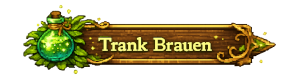
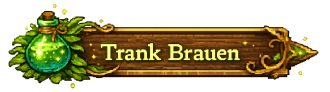
added trader

diff --git a/inventory.py b/inventory.py
@@ -15,7 +15,7 @@ class Inventory:
             self.item_slot.append([])
             for j in range(rows):
                 self.inventory_background[i].append(Actor('panel_brown', center = (x + i*65, y + j*65), anchor = ('center', 'center')))
-                self.item_slot[i].append(0)
+                self.item_slot[i].append(None)
 
     def add_item(self, colum, row, item):
         self.item_slot[colum][row] = item
@@ -24,7 +24,7 @@ class Inventory:
         added = False
         for i in range(len(self.item_slot)):
             for j in range(len(self.item_slot[i])):
-                if self.item_slot[i][j] == 0:
+                if self.item_slot[i][j] is None:
                     self.item_slot[i][j] = item
                     print(f'{i} | {j}')
                     print(item.name)
@@ -38,13 +38,18 @@ class Inventory:
 
         
     def del_item(self, colum, row):
-        self.item_slot[colum][row] = 0
+        self.item_slot[colum][row] = None
+
+    def del_all(self):
+        for i in range(len(self.item_slot)):
+            for j in range(len(self.item_slot[i])):
+                self.item_slot[i][j] = None
 
     def empty(self, colum, row):
-        return self.item_slot[colum][row] == 0
+        return self.item_slot[colum][row] is None
     
     def add_inv(self, x, y):
-        self.item_slot[0].append(0)
+        self.item_slot[0].append(None)
         self.inventory_background[0].append(Actor('panel_brown', center = (x, y), anchor = ('center', 'center')))
 
     def move(self, dx, dy):
@@ -53,15 +58,45 @@ class Inventory:
                 self.inventory_background[i][j].x += dx
                 self.inventory_background[i][j].y += dy
 
+    def get_value(self):
+        value = 0
+        for i in range(len(self.item_slot)):
+            for j in range(len(self.item_slot[i])):
+                if self.item_slot[i][j] is not None:
+                    value += self.item_slot[i][j].value
+        return value
+
+    def trade(self, button, pos, value1):
+        global_var.trade_allowed = False
+        selected_item = None
+        if button == 1 and global_var.inventory_open:
+            found = False
+            for i in range(len(self.item_slot)):
+                for j in range(len(self.item_slot[i])):
+                    self.inventory_background[i][j].image = 'panel_brown'
+                    if global_var.button_pressed(pos, self.inventory_background[i][j].x, self.inventory_background[i][j].y, 32, 32):
+                        if global_var.inventory_selected is not None:
+                            global_var.inventory_selected.inventory_background[global_var.inventory_pos_selected[0]][global_var.inventory_pos_selected[1]].image = 'panel_brown'
+                        if self.item_slot[i][j] is not None:
+                            self.inventory_background[i][j].image = 'panel_brown_selected'
+                            selected_item = self.item_slot[i][j]
+                            if self.item_slot[i][j].value * 2 <= value1:
+                                global_var.trade_allowed = True
+        return selected_item
+
+
+
     def mouse(self, button, pos):
         if button == 1 and global_var.inventory_open:
             found = False
             for i in range(len(self.item_slot)):
                 for j in range(len(self.item_slot[i])):
                     if global_var.button_pressed(pos, self.inventory_background[i][j].x, self.inventory_background[i][j].y, 32, 32):
-                        if global_var.inventory_pos_selected is not None:
+                        if global_var.inventory_selected is not None:
                             global_var.inventory_selected.inventory_background[global_var.inventory_pos_selected[0]][global_var.inventory_pos_selected[1]].image = 'panel_brown'
                             
+                            print('tauschen')
+
                             item_temp = self.item_slot[i][j]
                             self.add_item(i, j, global_var.inventory_selected.item_slot[global_var.inventory_pos_selected[0]][global_var.inventory_pos_selected[1]])
                             global_var.inventory_selected.add_item(global_var.inventory_pos_selected[0], global_var.inventory_pos_selected[1], item_temp)
@@ -80,7 +115,7 @@ class Inventory:
     def update(self):
         for i in range(len(self.item_slot)):
             for j in range(len(self.item_slot[i])):
-                if not self.item_slot[i][j] == 0:                    
+                if self.item_slot[i][j]is not None:                    
                     mouse_pos = pygame.mouse.get_pos()
 
                     if self.inventory_background[i][j].collidepoint(mouse_pos):
@@ -92,7 +127,7 @@ class Inventory:
             for i in range(len(self.item_slot)):
                 for j in range(len(self.item_slot[i])):
                     self.inventory_background[i][j].draw()
-                    if self.item_slot[i][j] != 0:
+                    if self.item_slot[i][j] is not None:
                         self.item_slot[i][j].draw(self.inventory_background[i][j].x, self.inventory_background[i][j].y, screen)
             
             if self.hovered_item is not None:

diff --git a/trader.py b/trader.py
@@ -5,4 +5,37 @@ from inventory import Inventory
 
 class Trader:
     def __init__(self):
-        self.actor = Actor('trader', bottomleft = (920, 900))
+        self.actor = Actor('trader', bottomleft = (920, 950))
+        self.trade_button = Actor('startknopf', center = (1120, 350))
+
+        self.selling_items = Inventory(3, 3, 900, 502)
+        self.buying_items = Inventory(4, 4, 1170, 470)
+
+        for name, item in global_var.all_ingredients.items():
+            self.buying_items.add_item_on_empty(item)
+
+    def mouse(self, button, pos):
+        self.selling_items.mouse(button, pos)
+
+        if global_var.trade_allowed and global_var.button_pressed(pos, 1120, 350, 130, 60) and global_var.inventory_open:
+            self.selling_items.del_all()            
+            global_var.trade_allowed = False
+            self.selling_items.add_item(1, 1, self.selected_item)
+        else:
+            self.selected_item = self.buying_items.trade(button, pos, self.selling_items.get_value())
+    
+    def update(self):
+        self.trade_button.y += global_var.scroll_y
+        self.actor.y += global_var.scroll_y
+        self.selling_items.move(0, global_var.scroll_y)
+        self.buying_items.move(0, global_var.scroll_y)
+
+    def draw(self, screen):
+        if not global_var.night:
+            self.actor.draw()
+            self.selling_items.draw(screen)
+            self.buying_items.draw(screen)
+
+            if global_var.inventory_open:
+                if global_var.trade_allowed:
+                    self.trade_button.draw()

diff --git a/global_var.py b/global_var.py
@@ -3,6 +3,7 @@ import random
 from items import Item
 from inventory import Inventory
 from layers import Layer
+from trader import Trader
 
 WIDTH = 1420
 HEIGHT = 930 
@@ -13,18 +14,26 @@ absolutex = 0
 absolutey = 930
 
 scene = 1
+
+trader = None
+trade_allowed = False
+
 wave = WaveManager()
+
 game_started = False
 game_start = False
 game_lost = False
+
 time = 0
-duration_day = 100
+duration_day = 10000
 night = False
+darkness = 0
+
 inventory_player = Inventory(5, 5, 42, 112)
 inventory_open = False
 inventory_pos_selected = None
 inventory_selected = None
-darkness = 0
+
 seed = None
 all_ingredients = {}
 all_effects = [
@@ -77,6 +86,7 @@ def mouse_global_var(button, pos):
 
     if game_started and not autoscroll:
         inventory_player.mouse(button, pos)
+        trader.mouse(button, pos)
         if scene == 1:
             for layer in layers:
                 layer.mouse(button, pos)
@@ -99,6 +109,7 @@ def update_global_var():
     global all_ingredients
     global inventory_player
     global layers
+    global trader
     
     absolutey += scroll_y
 
@@ -121,8 +132,13 @@ def update_global_var():
         inventory_player.add_item(0, 1, all_ingredients['dead_worm'])
         inventory_player.add_item(1, 1, all_ingredients['leaf'])        
         inventory_player.add_item(2, 1, all_ingredients['cherry'])
+        inventory_player.add_item_on_empty(Item('Debug Kill', 'potion', 0, None, {'fire':100}))
+
+        trader = Trader()
 
     if game_started:
+        trader.update()
+
         if time < duration_day and not night:
             time += 1
             if 255 - time >= 0:
@@ -156,9 +172,11 @@ def draw_global_var(screen):
     global game_started
     global wave
     global layers
+    global trader
     
     if game_started:
         inventory_player.draw(screen)
+        trader.draw(screen)
         if scene == 1:
             for layer in layers:
                 layer.draw(screen)
@@ -179,7 +197,10 @@ def game_setback():
     global darkness
     global game_start
     global seed
+    global trade_allowed
 
+
+    trade_allowed = False
     darkness = 0
     scene = 1
     autoscroll = True

diff --git a/items.py b/items.py
@@ -6,19 +6,20 @@ import pygame
 
 class Item():
     def __init__(self, name, type, delay, image, standart_effect):
-        self.value = 1
+        self.value = 0
         self.discovered_effects = {}
 
         if type == 'ingredient':
-            effects = self.generate_effects(standart_effect)
-            self.effects = effects
+            self.effects = self.generate_effects(standart_effect)
             self.name = name
             self.type = type
             self.delay = delay
 
             self.actor = Actor(image)
+            for effect, value in self.effects.items():
+                self.value += value
 
-        elif type == 'potion':
+        if type == 'potion':
             self.vis_height = 28
             self.name = name
             self.type = type
@@ -31,10 +32,8 @@ class Item():
                 self.discovered_effects[effect] = value
                 color = global_var.effect_to_color.get(effect, (200, 200, 200))
                 self.liquid.fill(color, special_flags=pygame.BLEND_MULT)
-            self.value = 2
+                self.value = value * 2
 
-        for effect, value in self.effects.items():
-            self.value *= value
 
     def generate_effects(self, standart_effect):    
 

diff --git a/layers.py b/layers.py
@@ -14,6 +14,7 @@ class Layer:
         self.pulse = False
         self.animation = Actor('animations/nothing', midbottom = (global_var.WIDTH // 2 - 40, global_var.absolutey - self.layer * 137 - 105))
 
+        self.frame = 0
         self.frames = {
             'fire': [
                 "animations/fire_1",
@@ -35,7 +36,7 @@ class Layer:
 
                 if not self.potion_used:
                     for effect, value in self.potion_slot.item_slot[0][0].effects.items():
-                        self.effect_duration = value*100 + 200
+                        self.effect_duration = value * 100 + 200
                         self.effect[effect] = self.potion_slot.item_slot[0][0].effects[effect]
                         if effect == 'pulse':
                             self.pulse = True
@@ -63,8 +64,11 @@ class Layer:
             self.effect = {}
 
     def animate(self):
-        if self.effect_timer % 9 == 0:
-            self.animation.image = self.frames['fire'][random.randint(0,6)]
+        if self.effect_timer % 10 == 0:
+            self.frame += 1
+            if self.frame  % len(self.frames['fire']) == 0:
+                self.frame = 0
+        self.animation.image = self.frames['fire'][self.frame]
 
 
 

diff --git a/Monster.py b/Monster.py
@@ -87,16 +87,16 @@ class Monster():
             if effect_name == 'poison':
                 self.effects[effect_name]['duration'] = strength * 200
                 self.effects[effect_name]['dmg'] = strength * 0.02
-                self.effects[effect_name]['timer_apply'] =  100 // strength
+                self.effects[effect_name]['timer_apply'] =  100 // strength + 1
             elif effect_name == 'fire':
                 self.effects[effect_name]['duration'] = strength * 20
                 self.effects[effect_name]['dmg'] = strength * 0.1 + 1
-                self.effects[effect_name]['timer_apply'] =  100 // strength
+                self.effects[effect_name]['timer_apply'] =  100 // strength + 1
                 self.effects['ice']['duration'] = 0
             elif effect_name == 'ice':
                 self.effects[effect_name]['duration'] = strength * 20
                 self.effects[effect_name]['dmg'] = strength * 0.05
-                self.effects[effect_name]['timer_apply'] =  100 // strength
+                self.effects[effect_name]['timer_apply'] =  100 // strength + 1
                 self.effects[effect_name]['speed_decrease'] = strength * 0.02
                 self.effects['fire']['duration'] = 0
                 self.effects['slow']['duration'] = strength * 10

diff --git a/brewing.py b/brewing.py
@@ -12,7 +12,7 @@ class Brew_potions():
         self.button_actor = Actor('alchemy/brew_button', center = (x, y + 200), anchor = ('center', 'center'))
 
     def mouse(self, button, pos):
-        if button == 1 and global_var.button_pressed(pos, self.button_actor.x, self.button_actor.y, 140, 40) and (not self.ingredients_slot.empty(0, 0) or not self.ingredients_slot.empty(0, 1)):
+        if button == 1 and global_var.button_pressed(pos, self.button_actor.x, self.button_actor.y, 165, 46) and (not self.ingredients_slot.empty(0, 0) or not self.ingredients_slot.empty(0, 1)):
             
             possible_effects = {}
             for effect in global_var.all_effects:

diff --git a/main.py b/main.py
@@ -15,7 +15,7 @@ inventory_button = Actor('inventory_button', topleft = (10, 10))
 
 
 def on_mouse_down(button, pos):
-    #print(pos)
+    print(pos)
     menu.mouse_menu(button, pos)
     if global_var.game_started and not global_var.autoscroll:
 